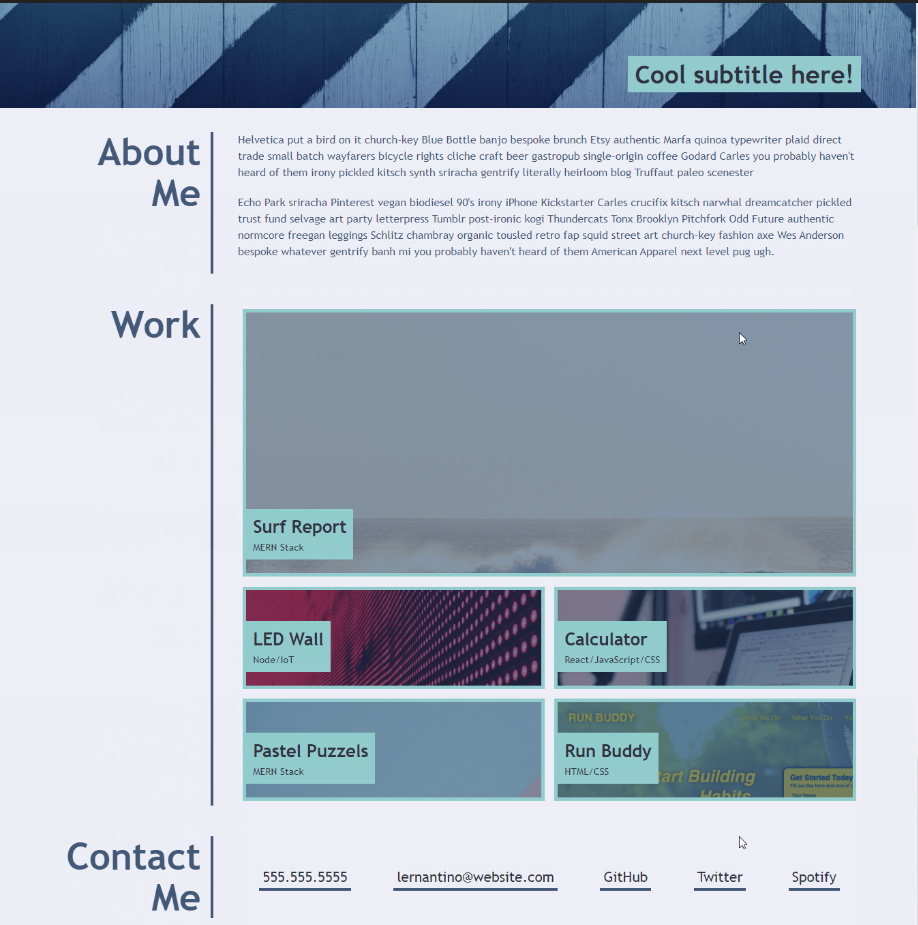
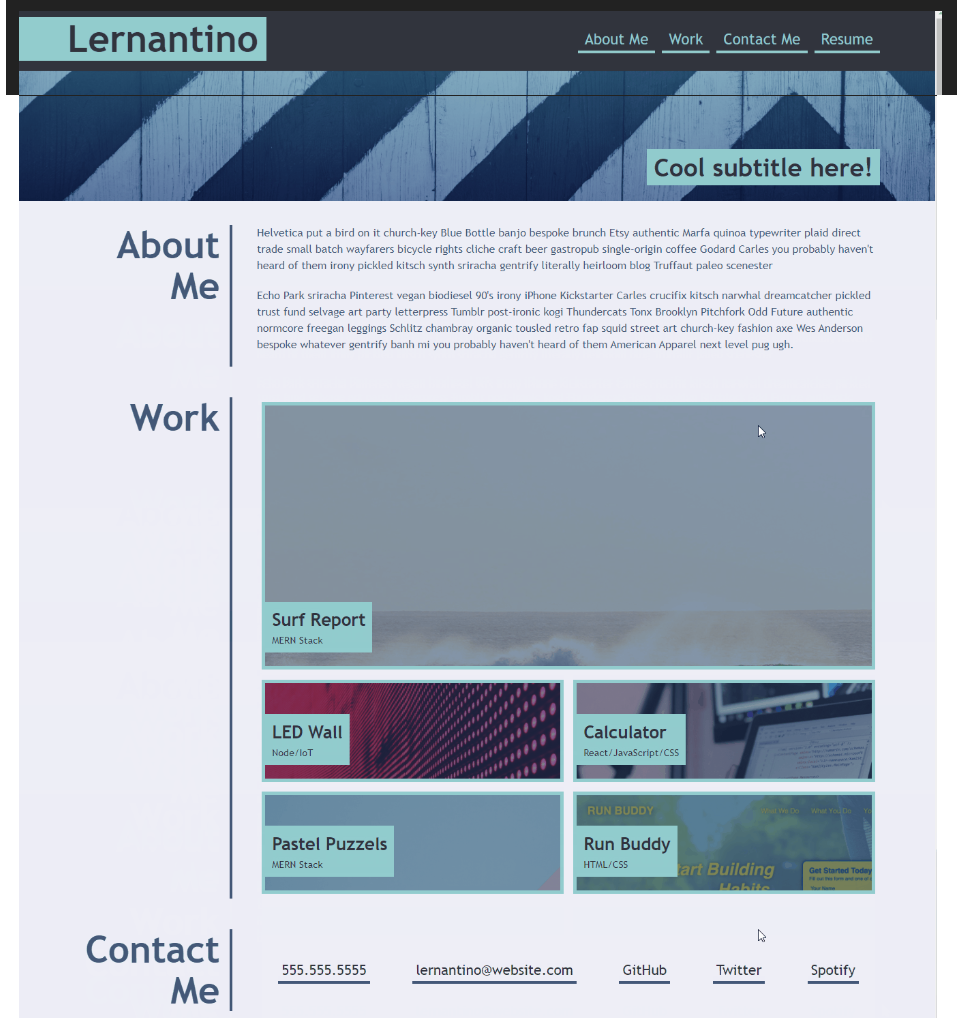
beginning with header and footer

diff --git a/hw2index.html b/hw2index.html
@@ -10,6 +10,8 @@
 <body>
     <header class='header'>
         <nav>
+           <img src=Assets/images/outlinePerson.jpg alt='dashing picture of Jonah'/>
+        
             <ul>
                 <li>
                     <a href="#search-engine-optimization">About Me</a>
@@ -33,7 +35,9 @@
 
 
     <!--CONTACT ME section-->
-    <footer></footer>
+    <footer class=footer>
+
+    </footer>
 
 </body>
 </html>

diff --git a/Assets/css/hw2style.css.css b/Assets/css/hw2style.css.css
@@ -11,3 +11,36 @@
     .header nav ul li {
         display: inline-block;
             }
+
+
+            
+
+
+
+
+
+
+
+
+
+
+
+
+
+
+
+
+
+
+
+
+
+    .footer = {
+        text-align: center;
+        padding: 3px;
+        background-color: DarkSalmon;
+        color: white;
+    }
+
+
+
